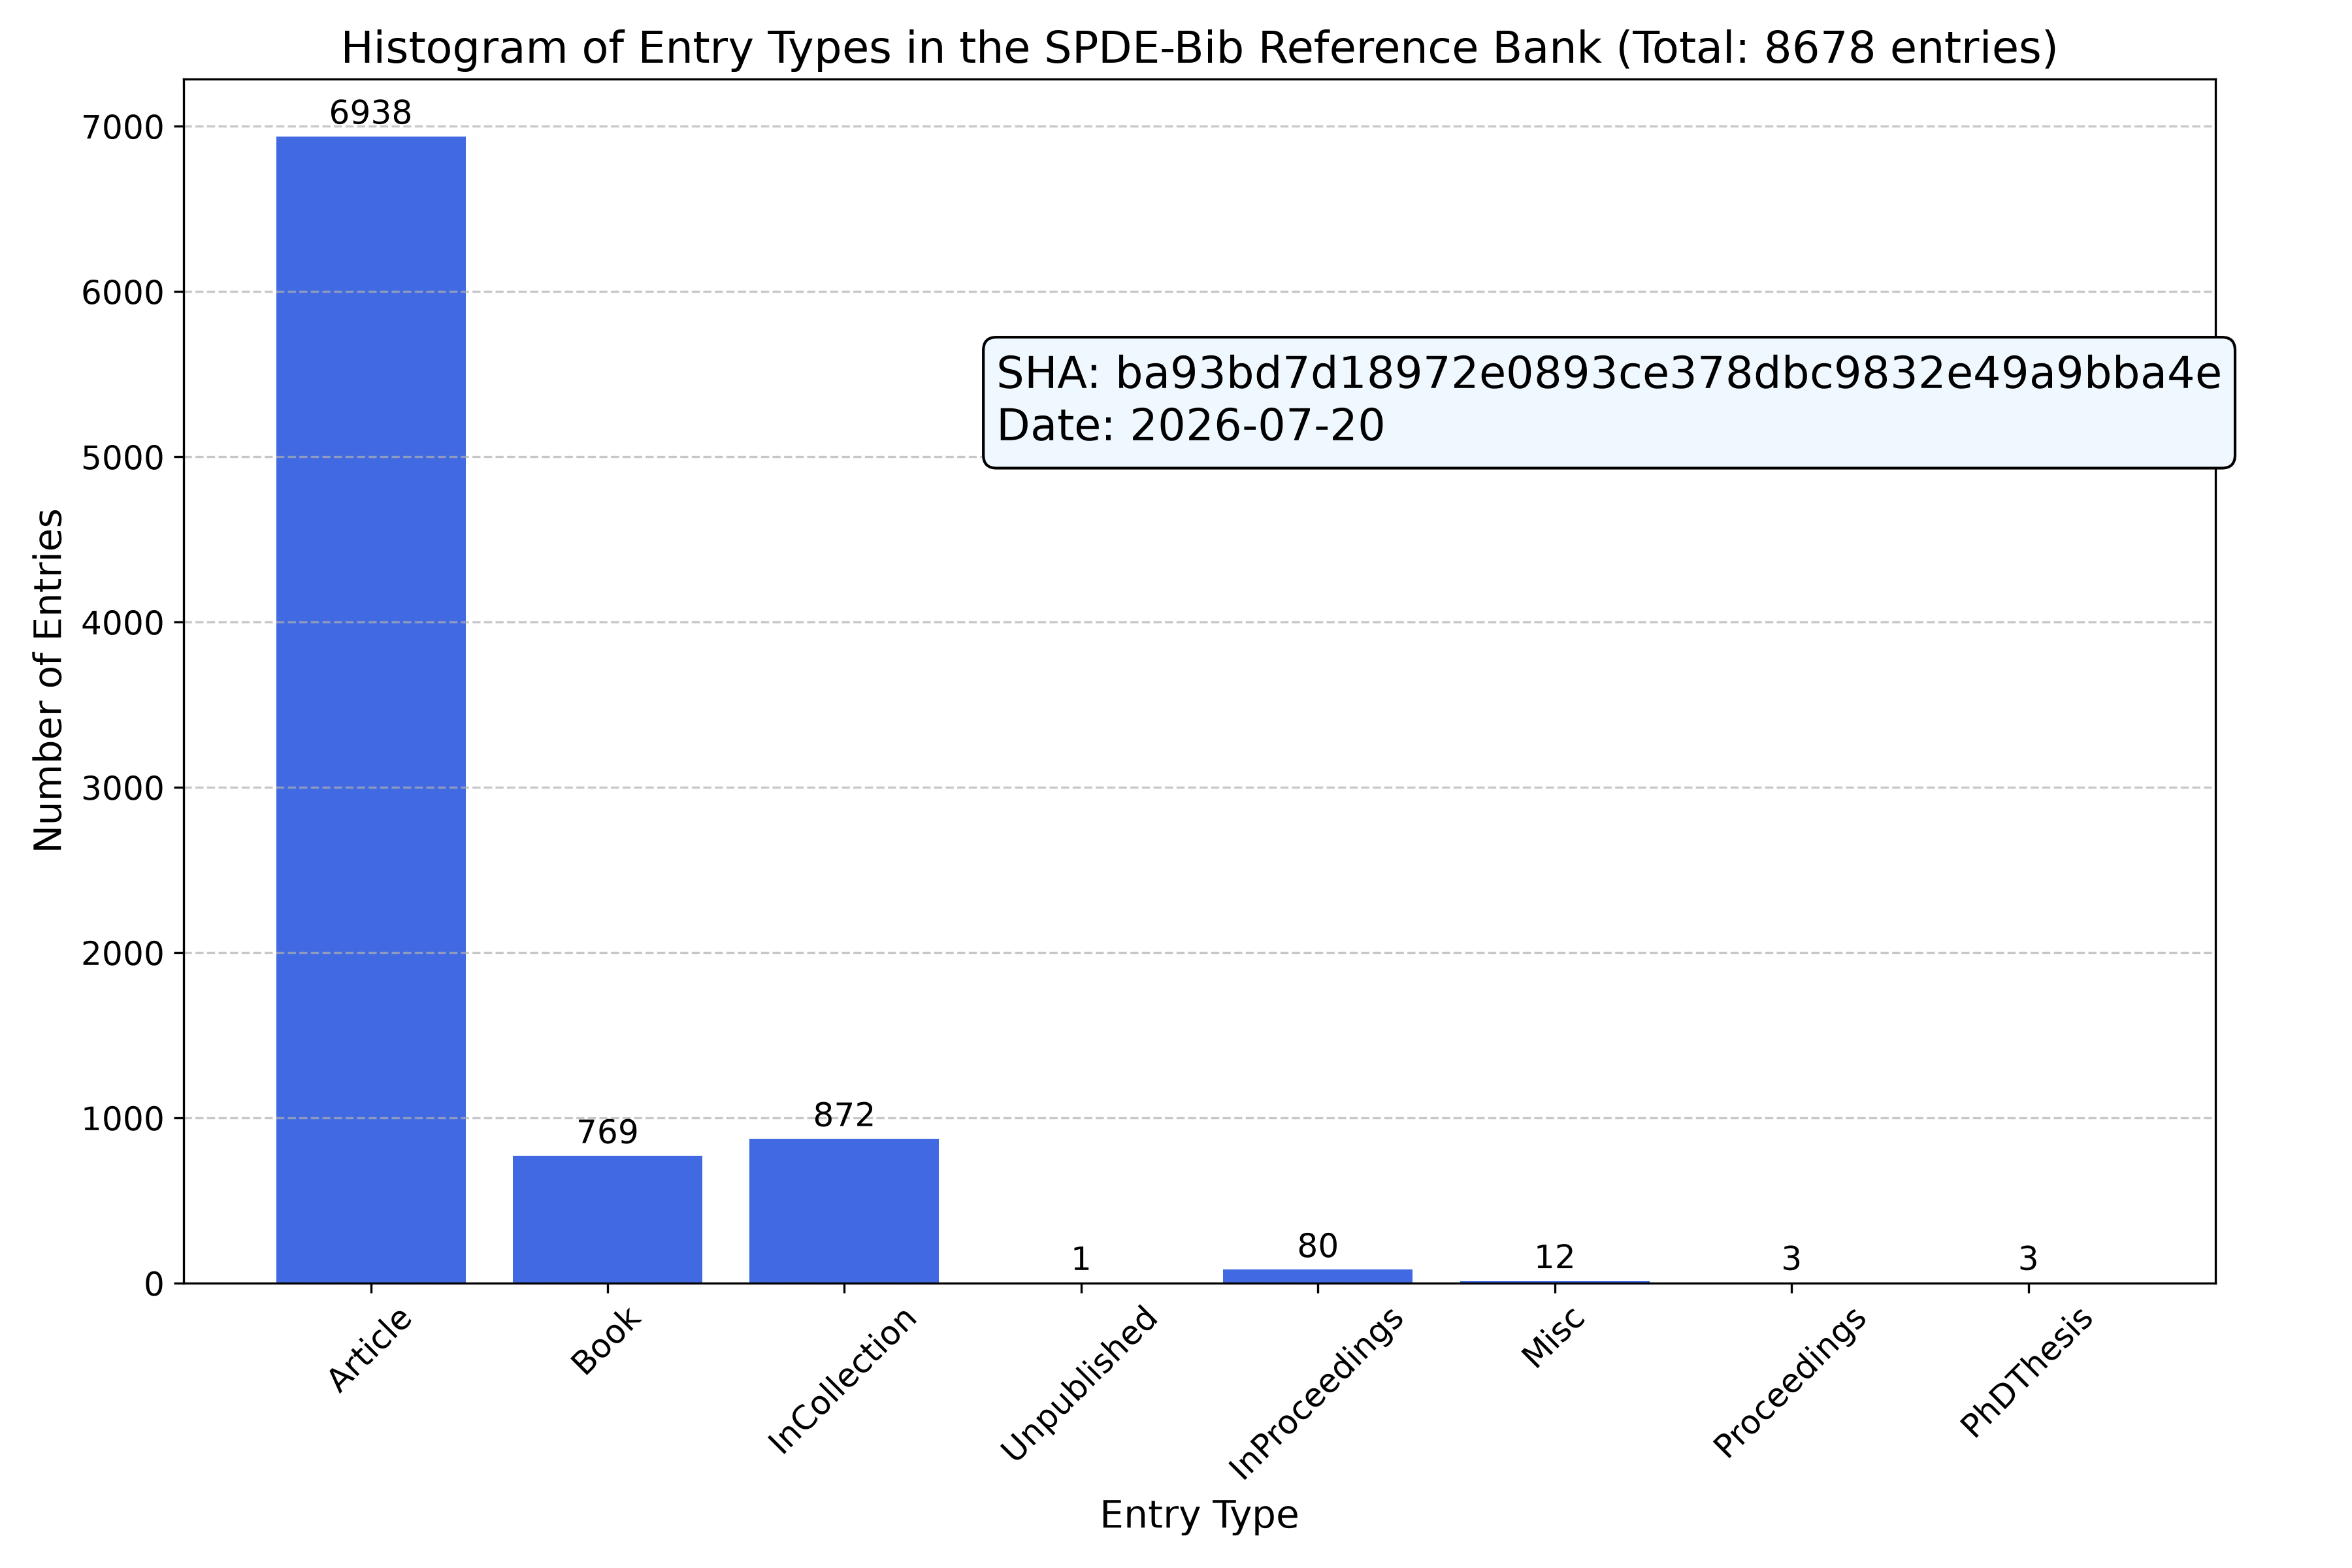
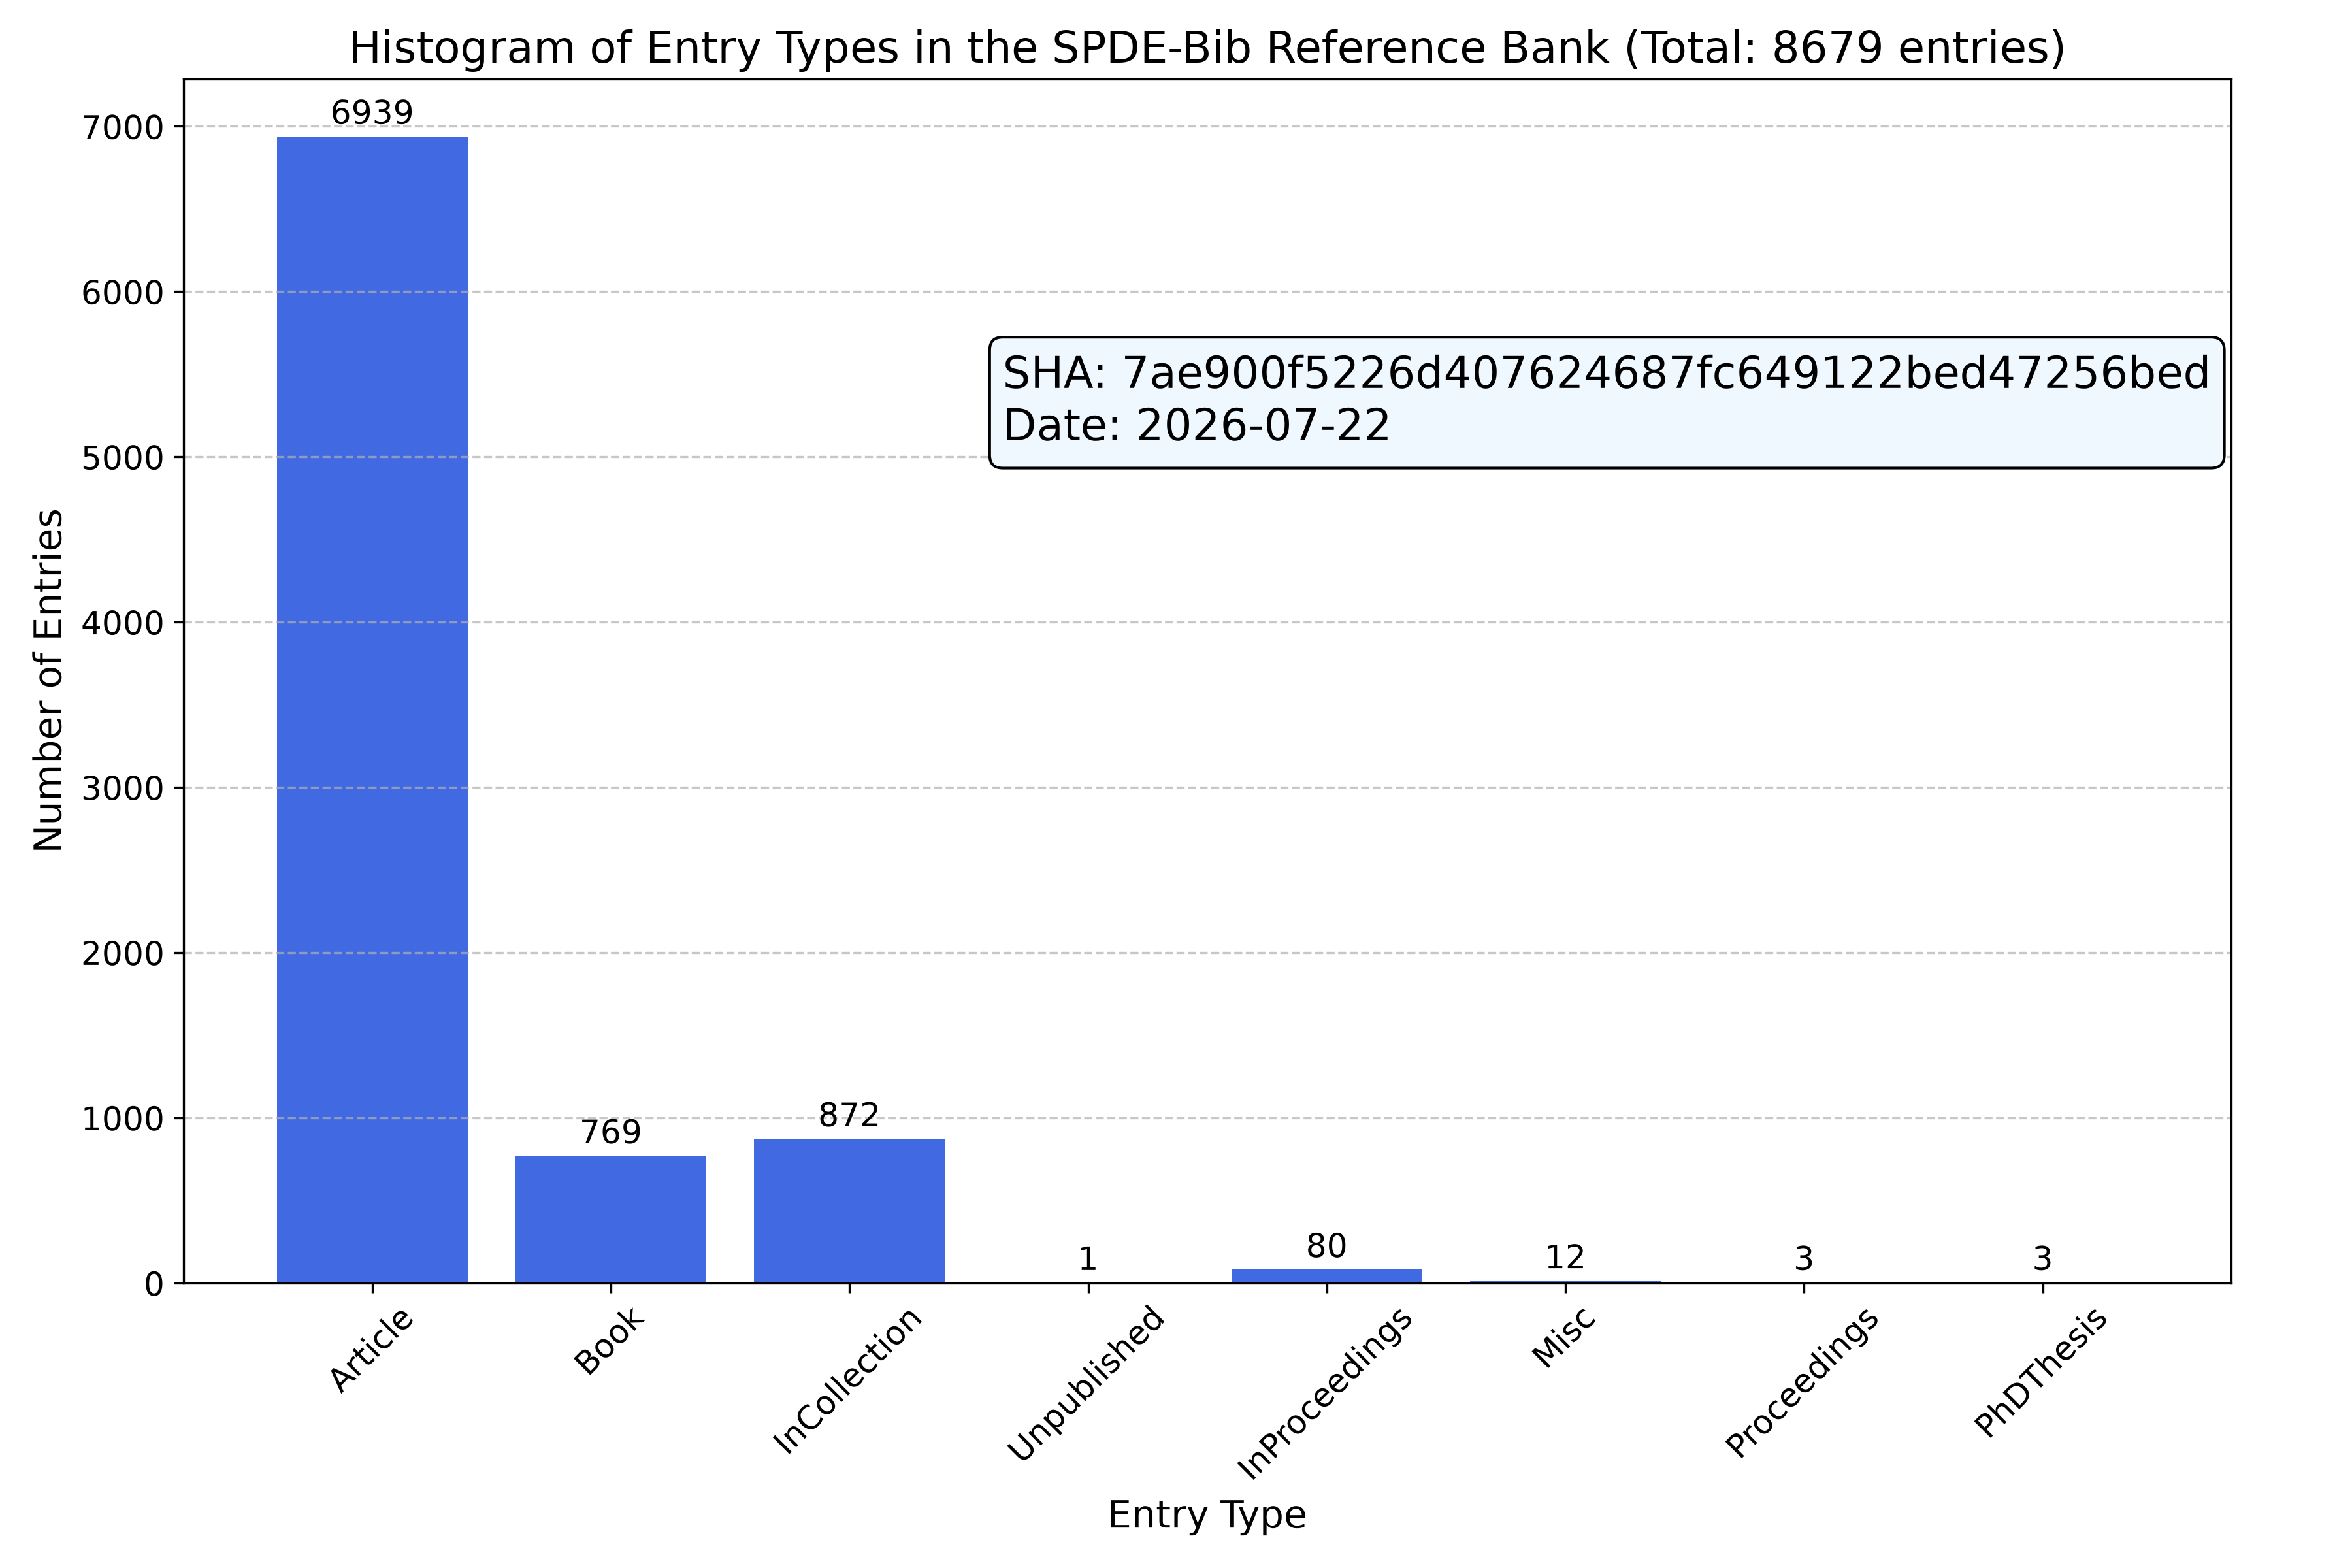
feat(bib): publish Ben Arous-Bourgade-McKenna landscape

diff --git a/Build_docs/bib_entries/ben-arous.bourgade.ea:24:landscape.rst b/Build_docs/bib_entries/ben-arous.bourgade.ea:24:landscape.rst
@@ -1,0 +1,30 @@
+ben-arous.bourgade.ea:24:landscape
+==================================
+
+:cite:t:`ben-arous.bourgade.ea:24:landscape`
+
+**BibTeX Entry:**
+
+.. code-block:: bibtex
+
+   @article{ben-arous.bourgade.ea:24:landscape,
+    archiveprefix = {arXiv},
+    author = {Ben Arous, G{\'e}rard and Bourgade, Paul and McKenna,
+   Benjamin},
+    doi = {10.1002/cpa.22146},
+    eprint = {2105.05051},
+    journal = {Communications on Pure and Applied Mathematics},
+    number = {2},
+    pages = {1302--1352},
+    primaryclass = {math.PR},
+    title = {Landscape complexity beyond invariance and the elastic
+   manifold},
+    url = {https://arxiv.org/abs/2105.05051},
+    volume = {77},
+    year = {2024}
+   }
+
+`The URL link to the source <https://arxiv.org/abs/2105.05051>`__
+
+
+`Back to index <../By-Cite-Keys.html>`__

diff --git a/Build_docs/By-Cite-Keys.rst b/Build_docs/By-Cite-Keys.rst
@@ -747,6 +747,7 @@ B
 - :cite:t:`ben-adda.cresson:13:corrigendum` : `ben-adda.cresson:13:corrigendum <bib_entries/ben-adda.cresson:13:corrigendum.html>`_
 - :cite:t:`ben-ari:09:large` : `ben-ari:09:large <bib_entries/ben-ari:09:large.html>`_
 - :cite:t:`ben-arous.bogachev.ea:05:limit` : `ben-arous.bogachev.ea:05:limit <bib_entries/ben-arous.bogachev.ea:05:limit.html>`_
+- :cite:t:`ben-arous.bourgade.ea:24:landscape` : `ben-arous.bourgade.ea:24:landscape <bib_entries/ben-arous.bourgade.ea:24:landscape.html>`_
 - :cite:t:`ben-arous.corwin:11:current` : `ben-arous.corwin:11:current <bib_entries/ben-arous.corwin:11:current.html>`_
 - :cite:t:`ben-arous.cranston.ea:95:coupling` : `ben-arous.cranston.ea:95:coupling <bib_entries/ben-arous.cranston.ea:95:coupling.html>`_
 - :cite:t:`ben-arous.gruadinaru.ea:94:holder` : `ben-arous.gruadinaru.ea:94:holder <bib_entries/ben-arous.gruadinaru.ea:94:holder.html>`_